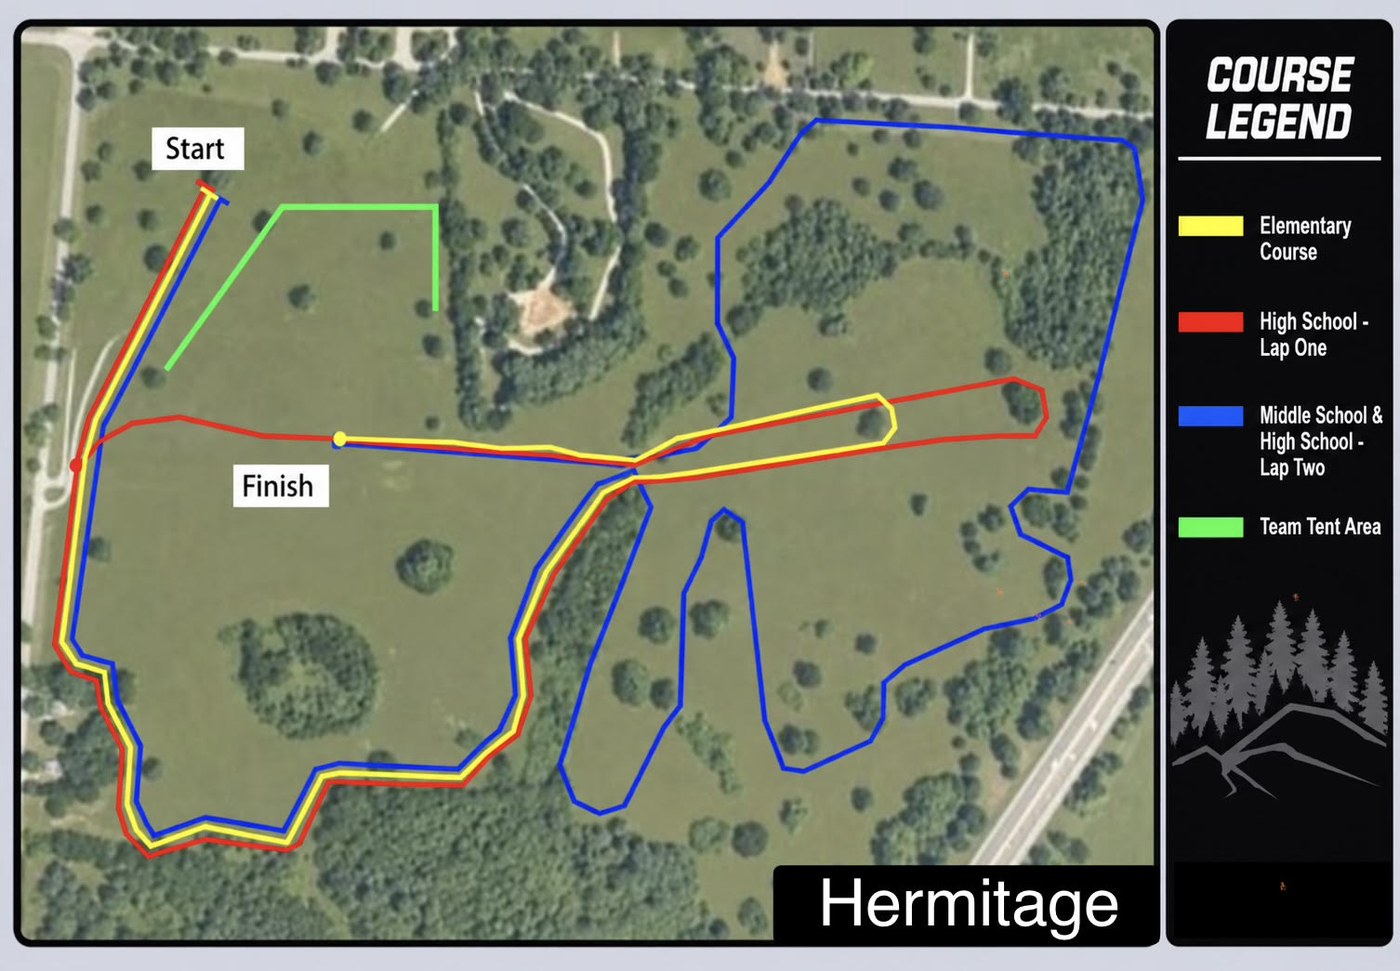
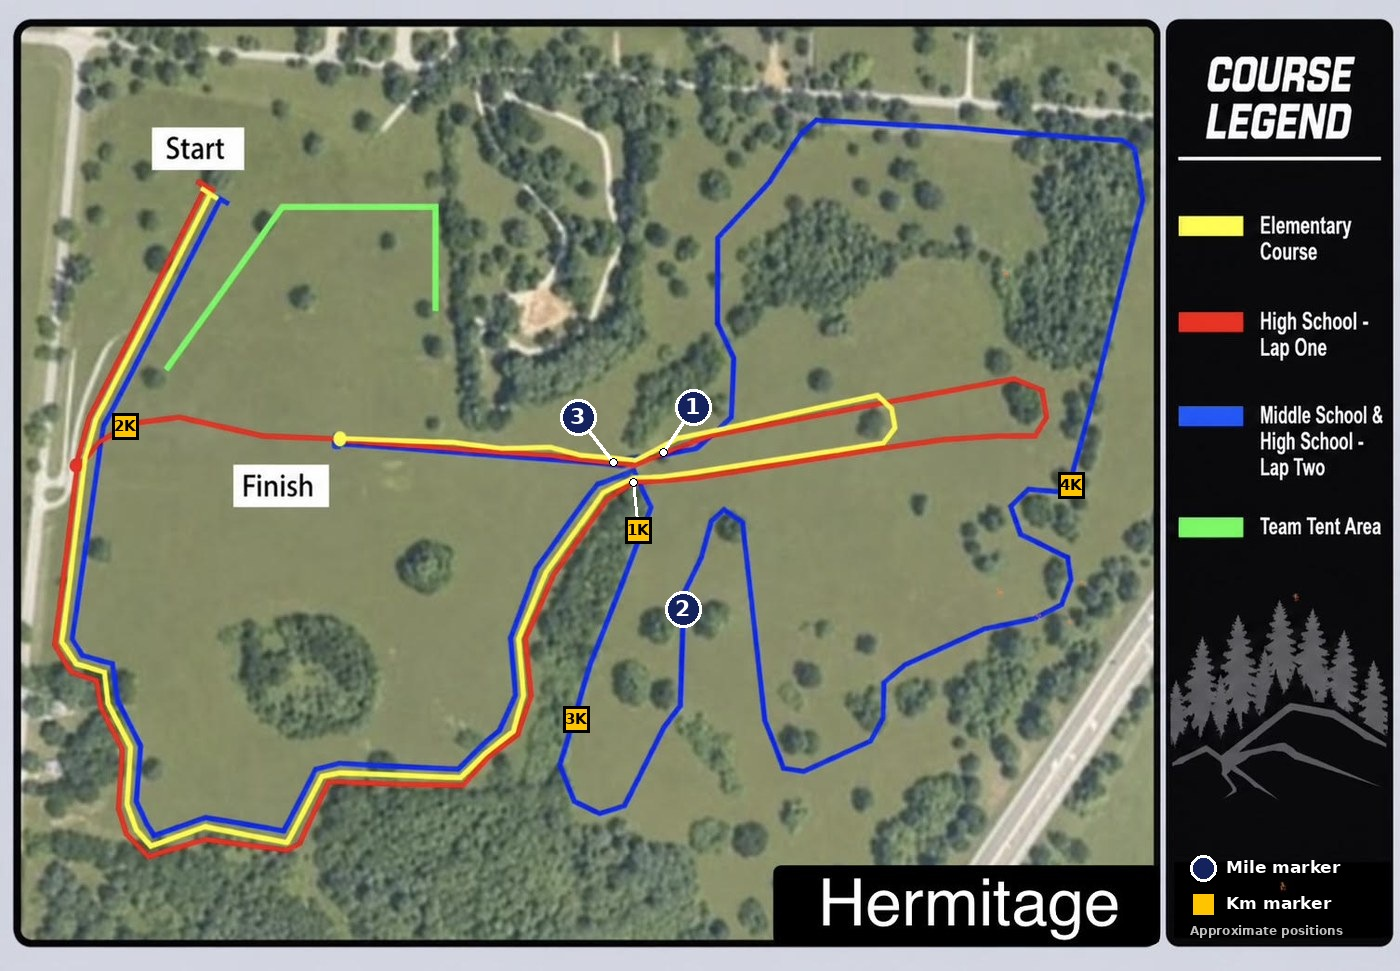
Add files via upload

diff --git a/results.html b/results.html
@@ -1021,6 +1021,19 @@ const ALL_RESULTS = [...RESULTS, ...RESULTS_HISTORY];
     const [h, mnt] = hhmm.split(":").map(Number);
     return `${h % 12 || 12}:${String(mnt).padStart(2, '0')} ${h >= 12 ? 'PM' : 'AM'}`;
   }
+  // Course elevation from GPS watch recordings (barometric altimeter; approximate, rounded to 5 ft).
+  // Keyed by venue and season, since courses can change from year to year.
+  const COURSE_ELEV = {
+    '2026|The Hermitage, Hermitage, TN':            { gain: 145, loss: 150, low: 486, high: 545 },
+    '2026|John Hunt Running Park, Huntsville, AL':  { gain: 100, loss: 100, low: 610, high: 656 },
+    '2026|Shelby Farms Park, Memphis, TN':          { gain: 105, loss: 105, low: 331, high: 371 },
+  };
+  function elevFor(r){ return COURSE_ELEV[r.date.slice(0, 4) + '|' + r.location] || null; }
+  function elevBlock(r){
+    const e = elevFor(r);
+    if (!e) return '';
+    return `<div style="border-top:1px solid var(--line); padding-top:10px; margin-bottom:6px;"><div style="font-size:11px; letter-spacing:0.08em; text-transform:uppercase; color:var(--slate); margin-bottom:3px;">Course Elevation</div><div title="From a GPS watch recording of the course; approximate." style="font-size:14px; color:var(--slate); line-height:1.4;">~${e.gain} ft gain · ~${e.loss} ft loss <span style="white-space:nowrap;">(low ${e.low} ft · high ${e.high} ft)</span></div></div>`;
+  }
   function wxIdFor(r){
     return 'wx-' + r.date + '-' + r.meetName.replace(/[^a-z0-9]/gi, '');
   }
@@ -1151,6 +1164,7 @@ const ALL_RESULTS = [...RESULTS, ...RESULTS_HISTORY];
             ${r.girlsPlace ? `<div><div style="font-size:11px; letter-spacing:0.08em; text-transform:uppercase; color:var(--slate); margin-bottom:3px;">Girls Team</div><div style="font-size:16px; font-weight:600; line-height:1.35; color:var(--pine);">${r.girlsPlace}</div></div>` : ''}
           </div>` : ''}
           ${r.lat != null ? `<div id="${wxIdFor(r)}-wrap" style="border-top:1px solid var(--line); padding-top:10px; margin-bottom:6px;"><div style="font-size:11px; letter-spacing:0.08em; text-transform:uppercase; color:var(--slate); margin-bottom:3px;">Race Day Weather${wxUsesArchive(r) ? ' (historical estimate)' : ''}</div><div id="${wxIdFor(r)}" style="font-size:14px; color:var(--slate); line-height:1.4;">Loading weather…</div></div>` : ''}
+          ${elevBlock(r)}
           <div class="results-columns">
             ${r.topBoys ? `<div><h4 class="link-subhead" style="margin-top:14px;">Boys</h4>${finisherTable(r.topBoys, r.season || r.date.slice(0, 4), r.meetName)}</div>` : ''}
             ${r.topGirls ? `<div><h4 class="link-subhead" style="margin-top:14px;">Girls</h4>${finisherTable(r.topGirls, r.season || r.date.slice(0, 4), r.meetName)}</div>` : ''}
